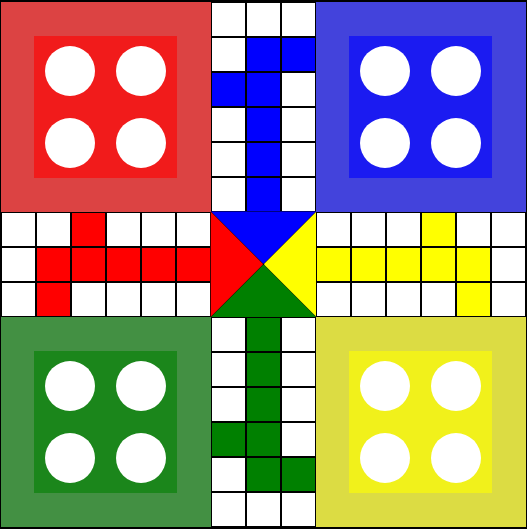
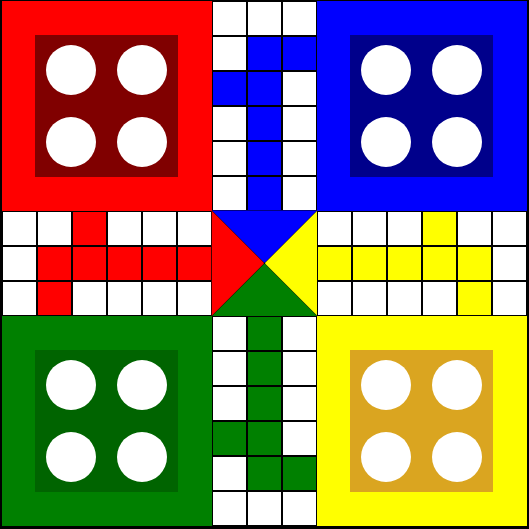
Add files via upload

diff --git a/Theory Assignment 2/app/components/House.js b/Theory Assignment 2/app/components/House.js
@@ -3,7 +3,7 @@ import { View, Text, StyleSheet } from 'react-native';
 
 const House = (props) => {
     return (
-        <View style={[styles.wrapper, props.style]}>
+        <View style={[styles.wrapper, {backgroundColor:props.bgcolor}]}>
             <View style={[styles.container, props.style]}>
                 <View style={styles.circle}></View>
                 <View style={styles.circle}></View>
@@ -30,7 +30,6 @@ const styles = StyleSheet.create({
         justifyContent: 'space-around',
         alignItems: 'center',
         flexWrap: 'wrap'
-        // opacity:"10%"
     },
     circle: {
         width: 50,
